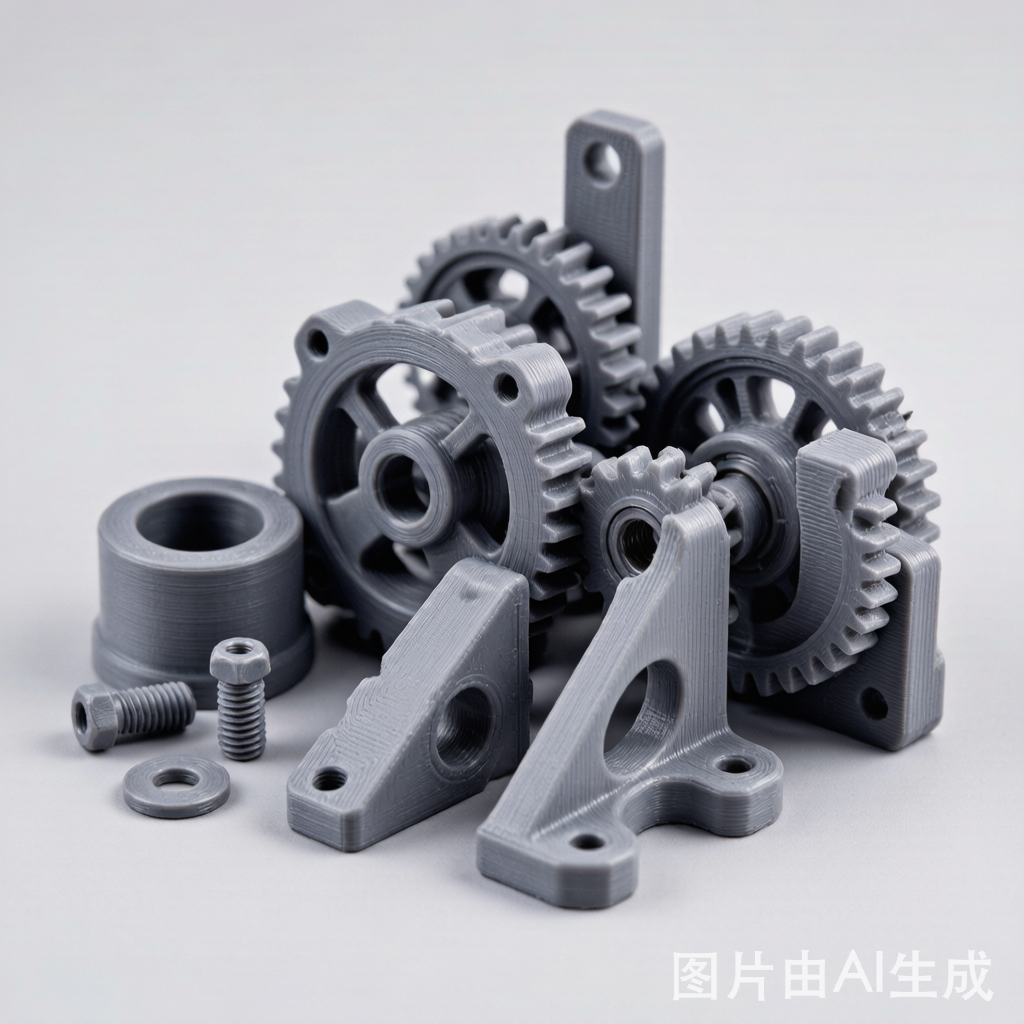
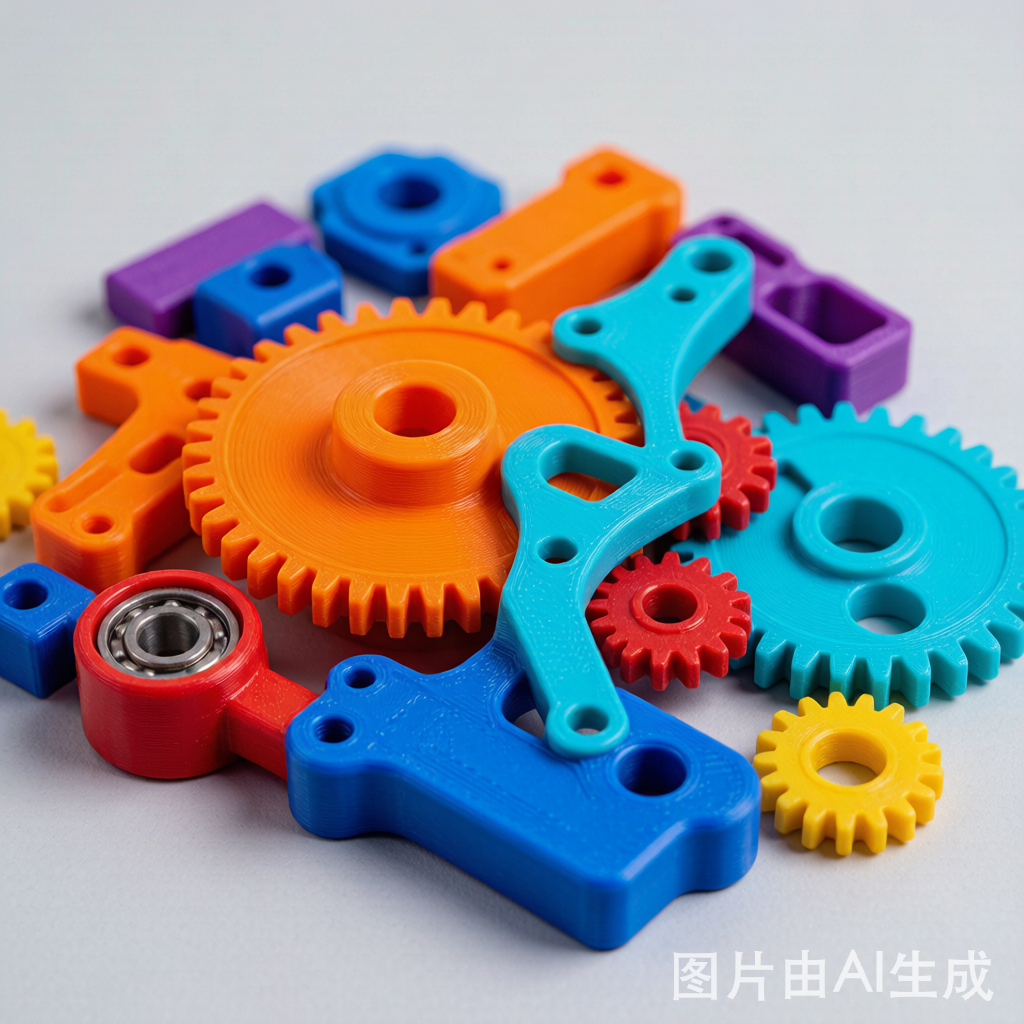
Colorize model images and add biomedical/organic 3D-print card

diff --git a/app/page.tsx b/app/page.tsx
@@ -252,6 +252,21 @@ export default function Home() {
                 convert without losing detail.
               </p>
             </article>
+            <article className="model-card">
+              <img
+                className="model-img"
+                src="/models/biology.png"
+                alt="3D-printed biomedical and organic model"
+                width="400"
+                height="400"
+                loading="lazy"
+              />
+              <h3>Biomedical &amp; organic</h3>
+              <p>
+                Anatomical models, prosthetics and organic shapes. Smooth surfaces and
+                fine curvature are preserved in both binary and ASCII STL.
+              </p>
+            </article>
           </div>
         </section>
 
